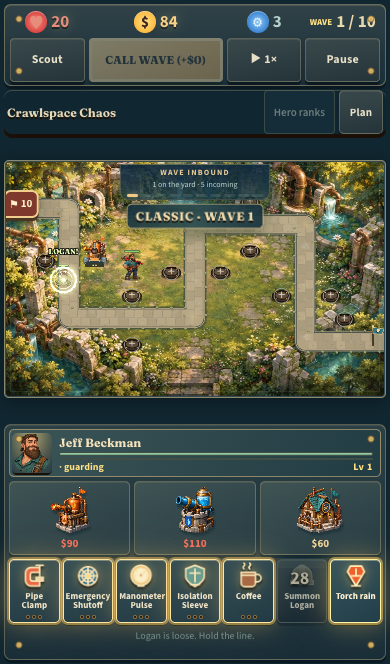
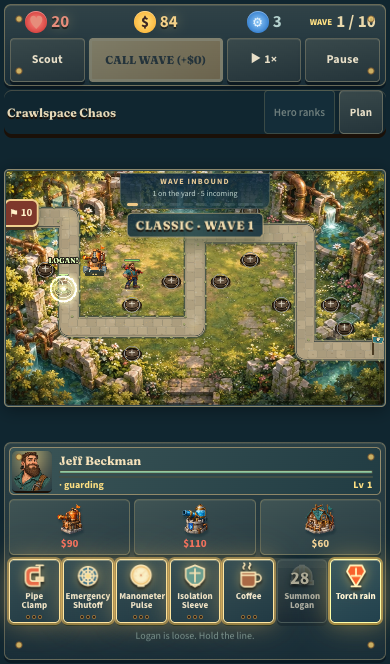
Fix boss layout precedence and expanded browser chrome sizing

diff --git a/src/mobile.css b/src/mobile.css
@@ -8,7 +8,8 @@
   min-height: 0;
   container-type: size;
 }
-.play .battlefield-space .stage {
+.play .battlefield-space .stage,
+.play:has(.boss-panel:not(.hidden)) .battlefield-space .stage {
   flex: none;
   width: min(100cqw, 160cqh);
   height: auto;
@@ -102,7 +103,7 @@
   .play .jeff-card .bar.xp { height: 2px; }
   .play .tool-tray { display: grid; grid-auto-flow: column; grid-auto-columns: minmax(0, 1fr); gap: 4px; padding: 0; overflow: visible; }
   .play .tray-tool { min-width: 0; min-height: 56px; padding: 2px; gap: 0; }
-  .play .tray-tool canvas { width: 34px; height: 34px; }
+  .play .tray-tool canvas { width: 34px !important; height: 34px !important; }
   .play .tray-key, .play .tray-name { display: none; }
   .play .tray-cost { font-size: 11px; line-height: 16px; }
   .play .ability-rail { grid-template-columns: repeat(7, minmax(0, 1fr)); gap: 3px; }
@@ -166,7 +167,7 @@
   .play .jeff-card canvas { width: 36px !important; height: 36px !important; }
   .play .tool-tray { gap: 2px; }
   .play .tray-tool { min-height: 50px; }
-  .play .tray-tool canvas { width: 30px; height: 30px; }
+  .play .tray-tool canvas { width: 30px !important; height: 30px !important; }
   .play .ability-rail { grid-template-columns: repeat(4, minmax(0, 1fr)); gap: 3px; }
   .play .ability { min-height: 51px; padding-top: 25px; }
   .play .ability .ab-glyph { width: 23px; height: 23px; left: calc(50% - 11.5px); }
@@ -178,4 +179,13 @@
   .play .pause-card h2 { font-size: 22px; margin: 0; }
   .play .pause-actions { gap: 5px; margin-top: 7px; }
   .play .pause-actions .btn { min-height: 44px; padding: 4px; font-size: 14px; }
+}
+
+/* Expanded browser bars can leave a landscape phone only 280–300px tall. */
+@media (orientation: landscape) and (max-height: 319px) and (max-width: 1100px) {
+  .play { grid-template-columns: minmax(0, 1fr) 336px; }
+  .play .hud-bottom { gap: 2px; }
+  .play .ability-rail { grid-template-columns: repeat(7, minmax(0, 1fr)); }
+  .play .ability { min-height: 64px; padding-top: 29px; }
+  .play .hint { height: 14px; min-height: 14px; }
 }

diff --git a/docs/mobile-layout/verification.md b/docs/mobile-layout/verification.md
@@ -9,8 +9,12 @@ Validation on the production build:
 - `npm test`: 400 tests across 18 files passed.
 - `npm run build` and `git diff --check`: passed.
 - `node scripts/browser-mobile-check.mjs <isolated-CDP-port> <output> http://127.0.0.1:5186/`: passed, no browser exceptions.
-- Ten viewport sizes: 320×568, 360×640, 375×667, 390×664, 430×740, 768×1024, 568×320, 667×375, 740×360, 844×390. Every battle control is in view, at least 44 pixels tall/wide (allowing subpixel rounding), the dock does not overlap the board, and there is no document overflow.
-- Four additional presentation fixtures show boss health with a five-tool tray. These clone UI elements only; they do not claim boss/endless gameplay completion.
+- Twelve viewport sizes: 320×568, 360×640, 375×667, 390×664, 430×740, 768×1024, 568×320, 667×375, 740×360, 844×390, 844×300, 667×280. Every battle control is in view, at least 44 pixels tall/wide (allowing subpixel rounding), the dock does not overlap the board, and there is no document overflow. The two shortest layouts model expanded mobile browser bars.
+- Eight additional presentation fixtures show boss health with a five-tool tray, including portrait tablets at 768×1024 and 820×1180. These clone UI elements only; they do not claim boss/endless gameplay completion.
 - Normal touch input deploys Jeff, builds a tower with ordinary starting cash, cancels placement, opens tower commands, scouts, toggles planning/pause, starts a wave and summons Logan. Rotation during combat and the desktop 1440×900 layout pass too.
 
-`report.json` contains measurements for all 16 checks. Screenshots show small portrait, phone combat, landscape combat and desktop. This is Chromium mobile emulation; physical iPhone/Safari and Android-device testing has not been performed. Safe-area padding and dynamic viewport sizing are implemented, not proven on physical hardware.
+The Gitar review found that the older boss-panel selector beat the new board sizing at tablet widths. Reproduced a distorted board at 768×1024, raised the new sizing selector's specificity, and verified the corrected aspect ratio. The fixture now creates an actually visible boss element, exercising `:has(.boss-panel:not(.hidden))` rather than overriding display on a hidden element. Inline tower portrait sizes are also overridden so all five portraits fit their touch targets.
+
+Additional isolated development fixtures verified the real rank panel at 320×568, and Pause → Clock out → results at 568×320. The endless fixture bypassed its unlock gate only, and the rank fixture granted test XP; neither is ordinary-play progression evidence.
+
+`report.json` contains measurements for all 22 checks. Screenshots show small portrait, phone combat, landscape combat, a short landscape viewport and desktop. This is Chromium mobile emulation; physical iPhone/Safari and Android-device testing has not been performed. Safe-area padding and dynamic viewport sizing are implemented, not proven on physical hardware.
